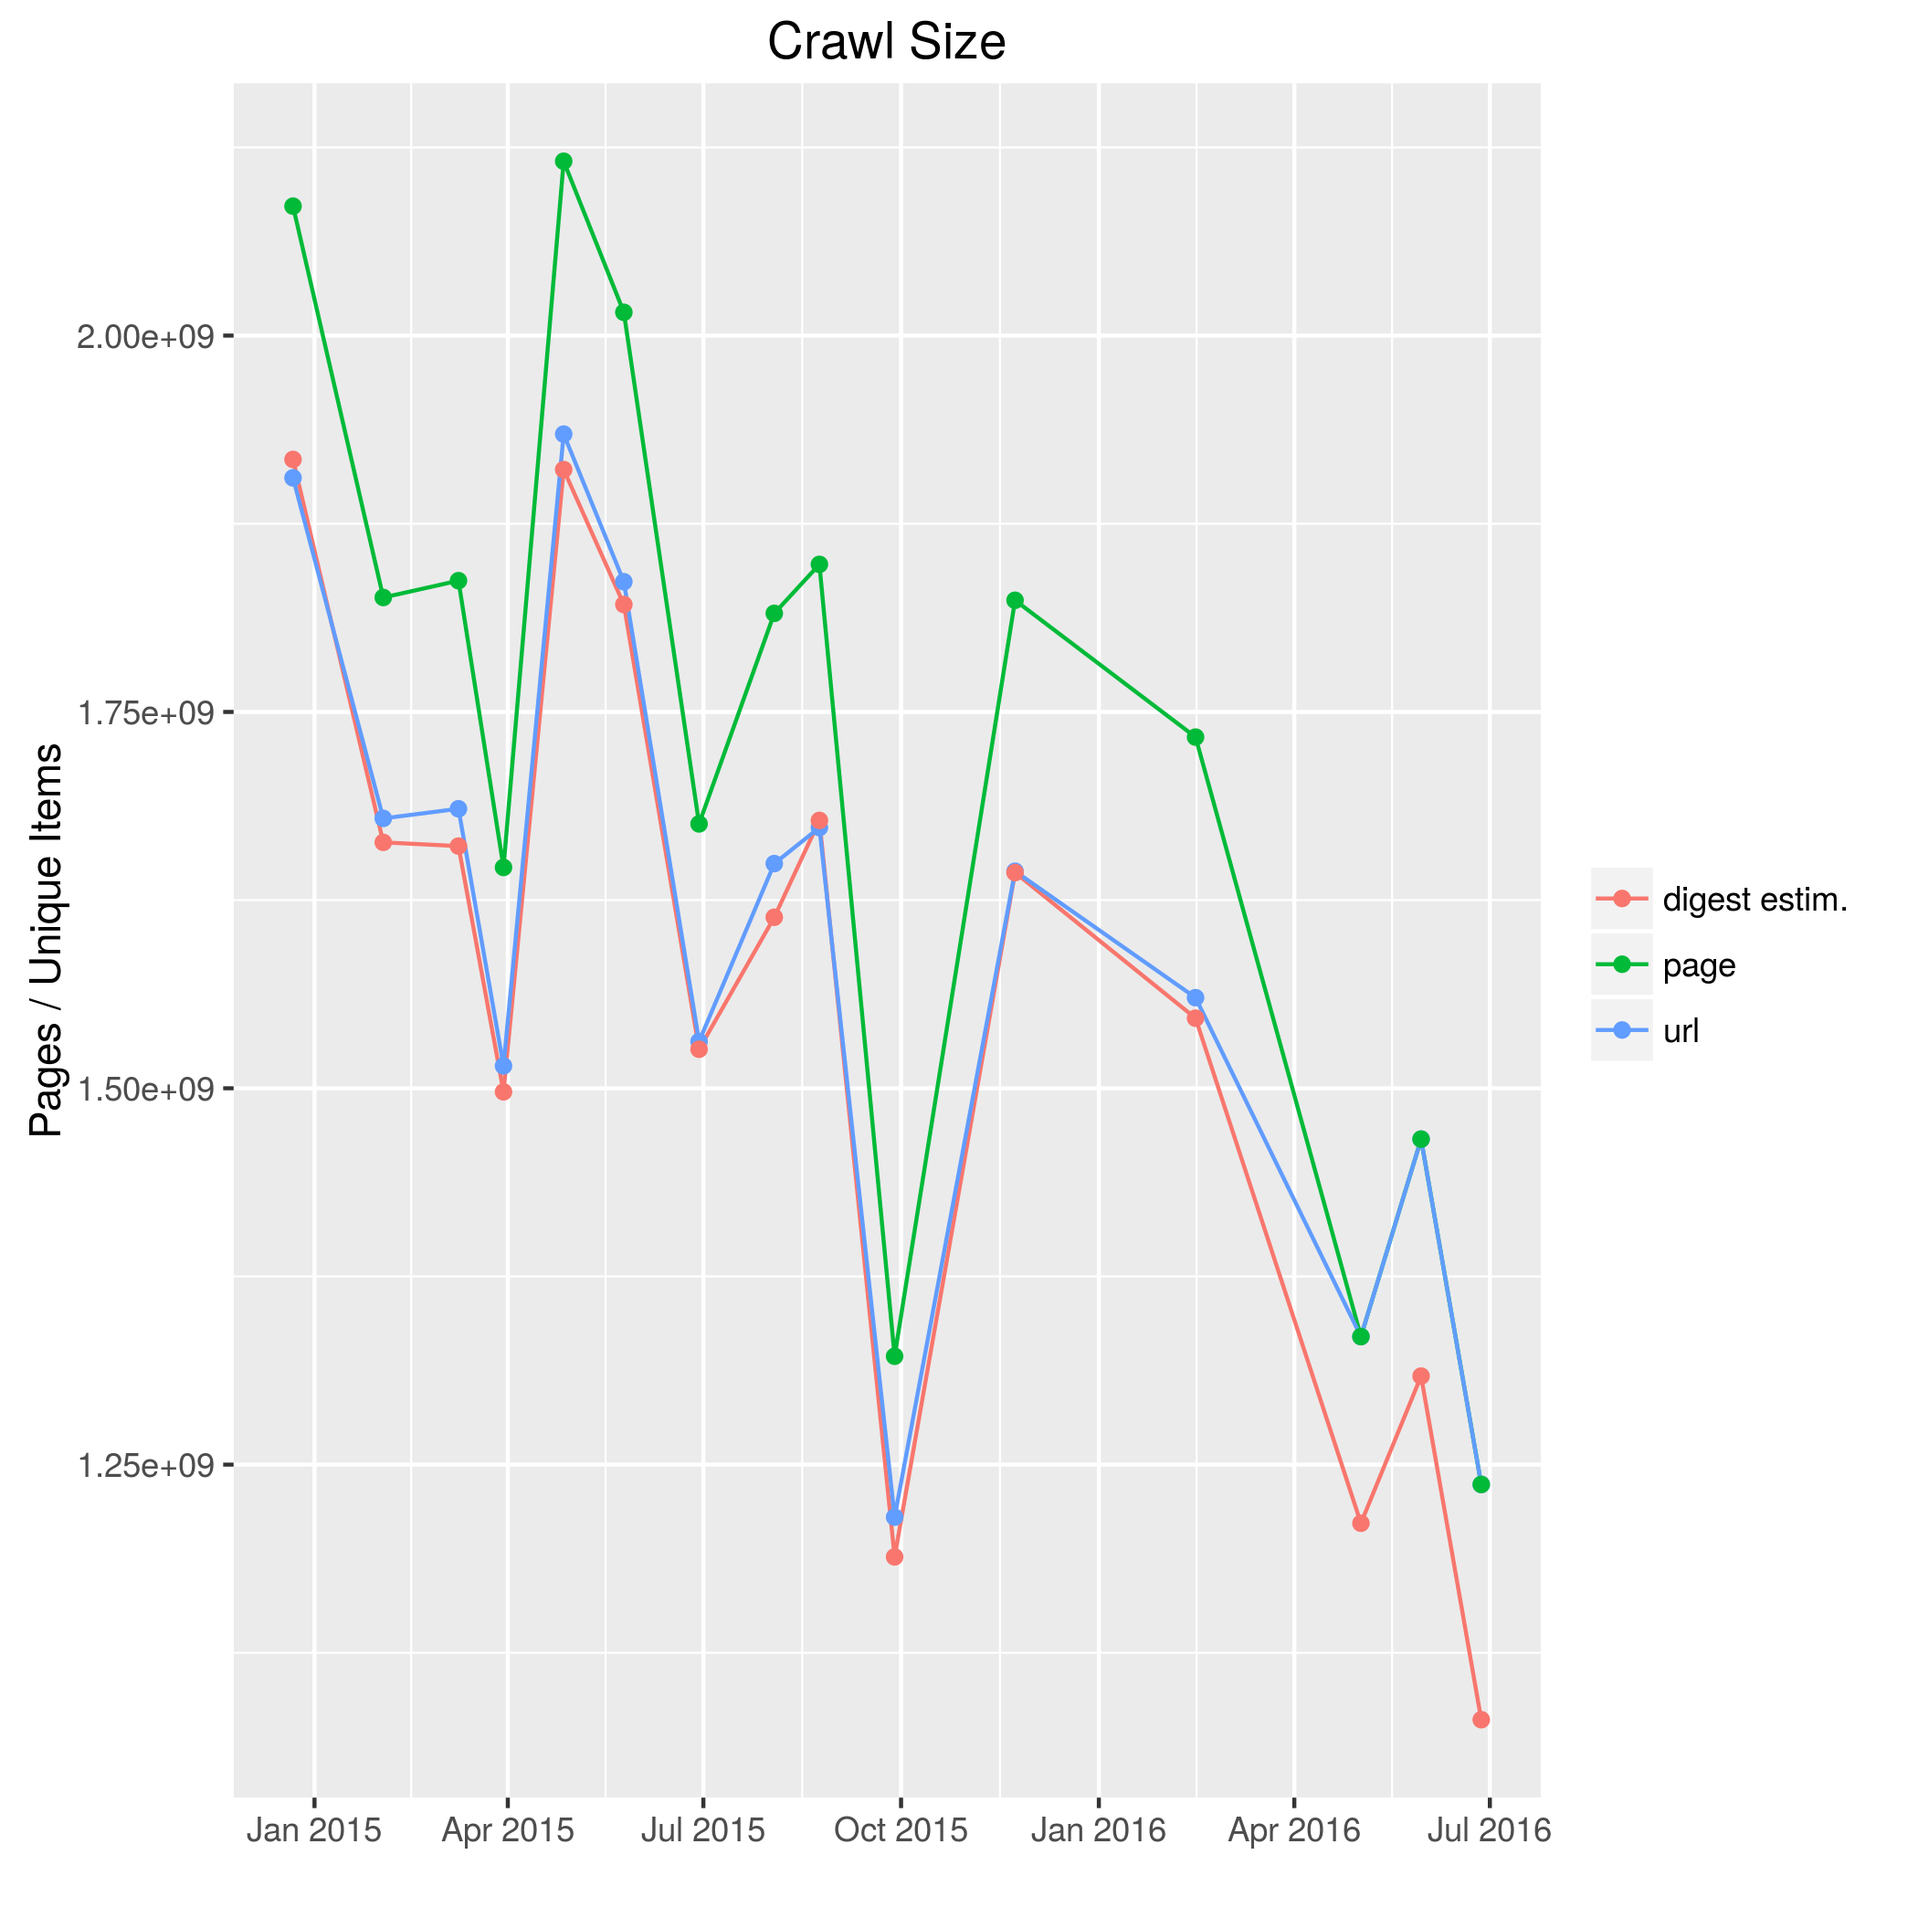
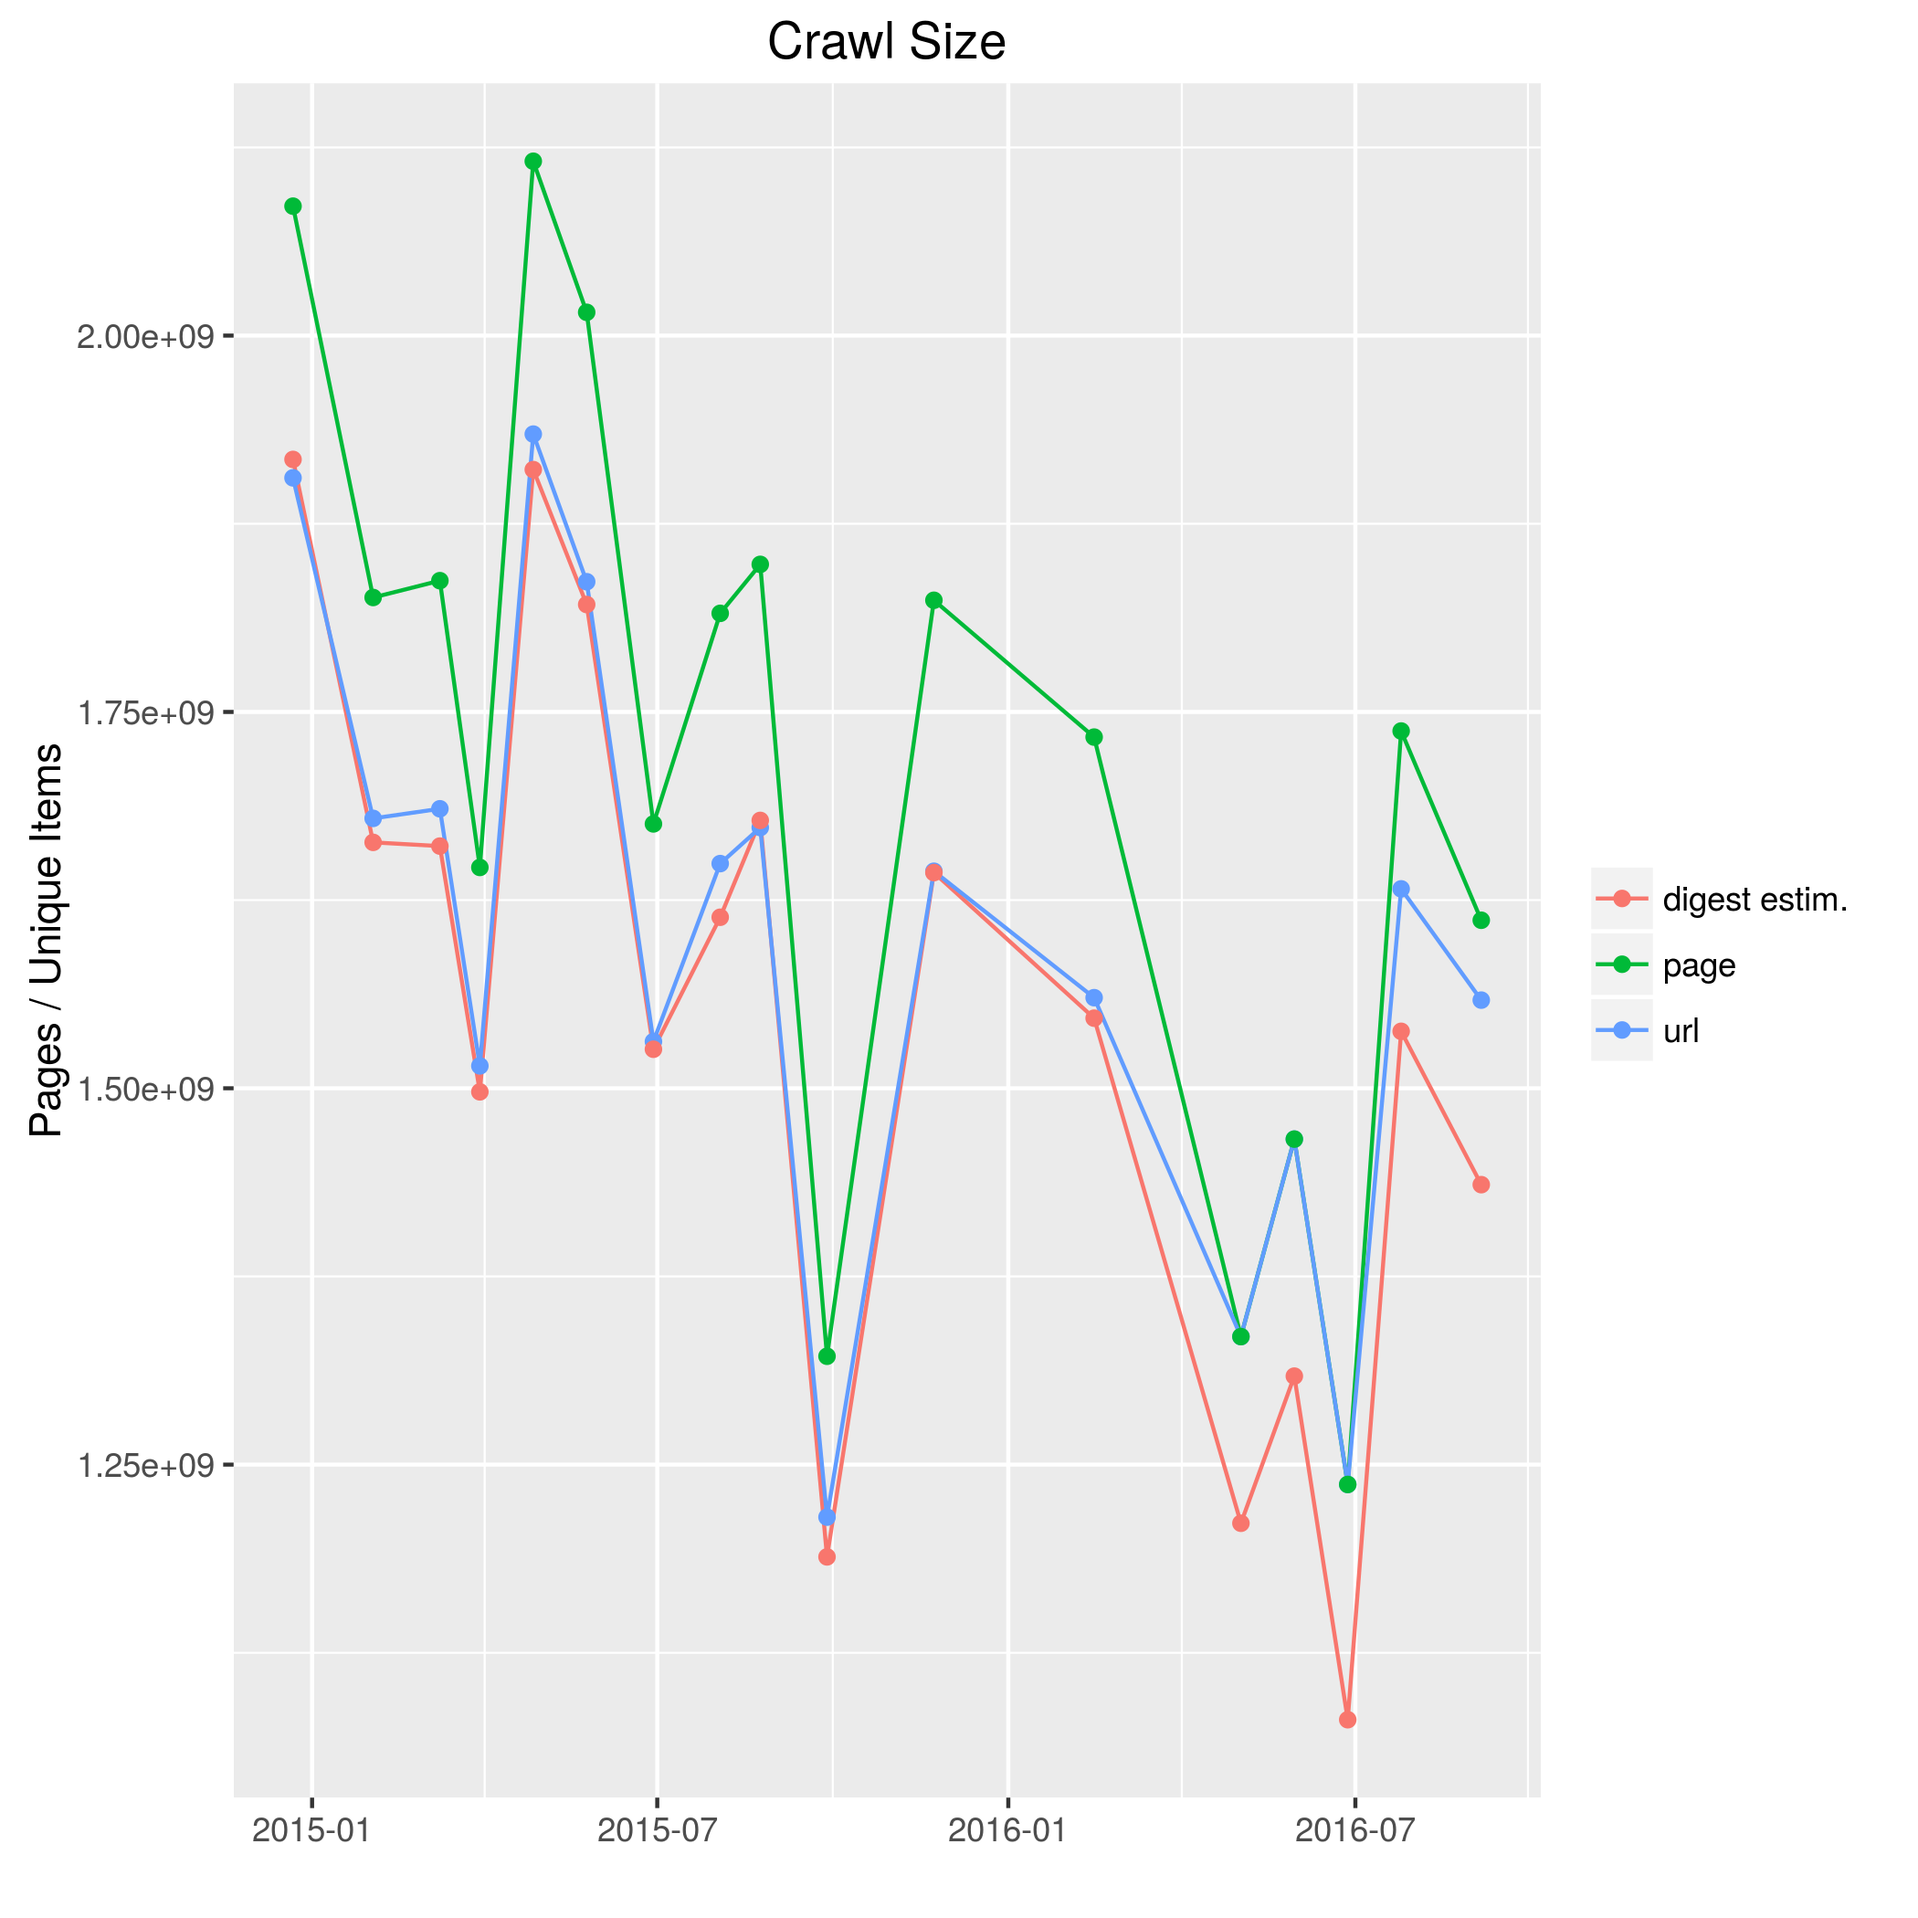
add August 2016 crawl plots

diff --git a/README.md b/README.md
@@ -60,6 +60,8 @@ Public Data Set bucket on AWS S3:
 while read crawl; do
     aws s3 cp s3://commoncrawl/crawl-analysis/$crawl/stats/part-00000.gz ./stats/$crawl.gz
 done <<EOF
+CC-MAIN-2016-36
+CC-MAIN-2016-30
 CC-MAIN-2016-26
 CC-MAIN-2016-22
 CC-MAIN-2016-18
